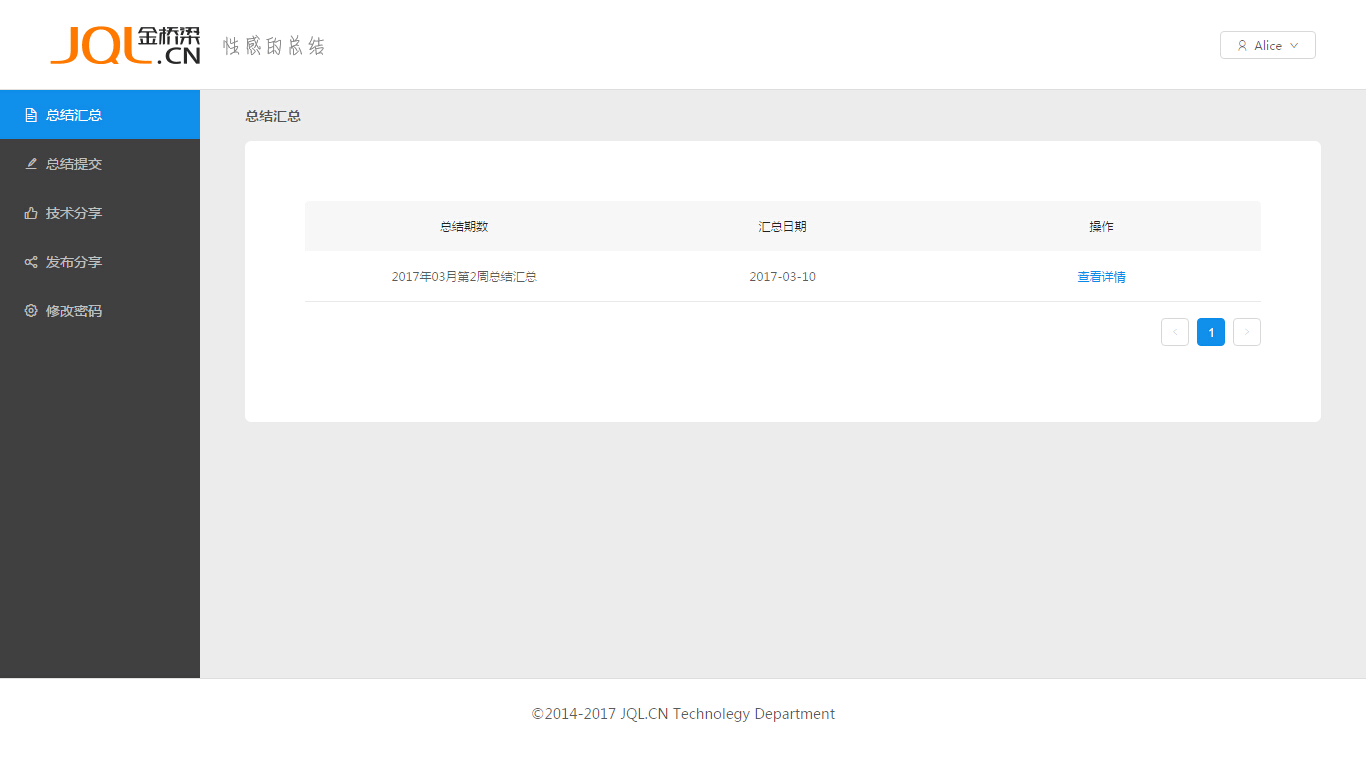
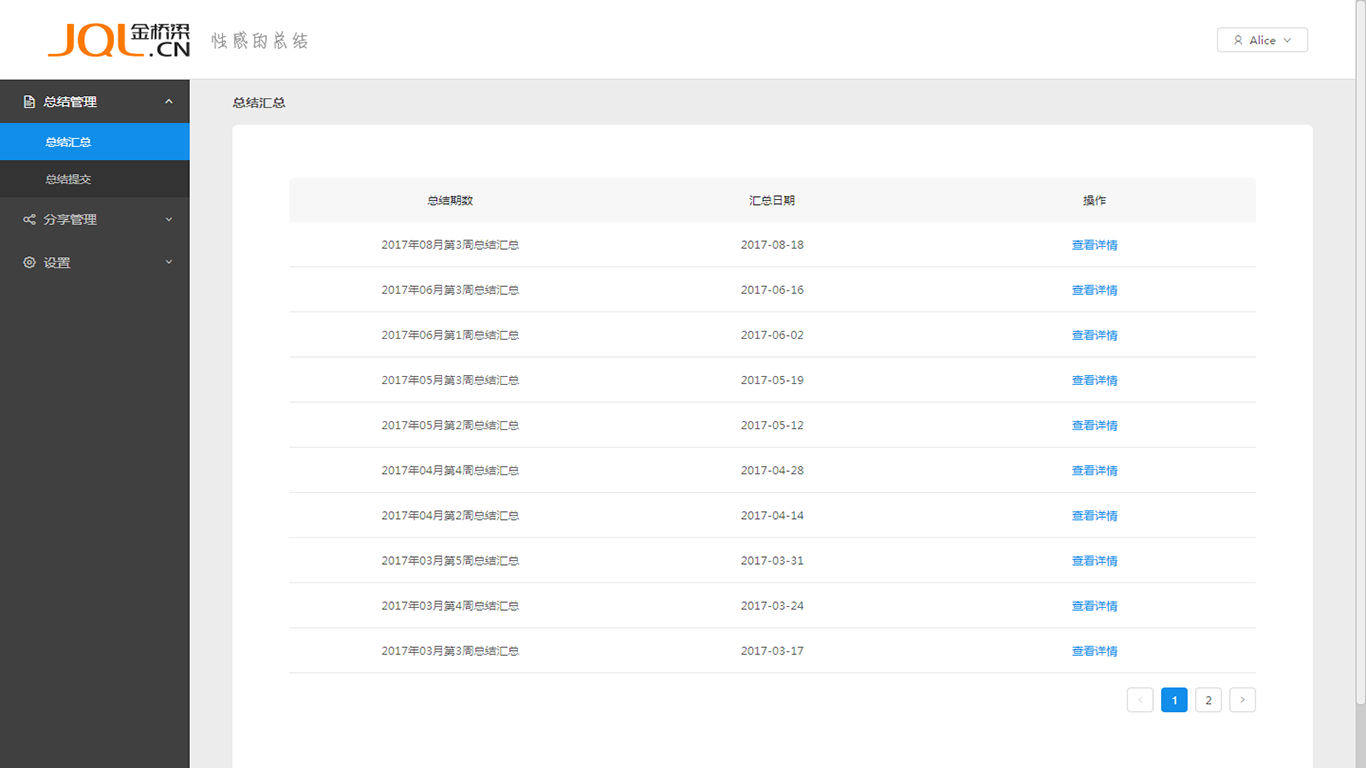
菜单栏优化
菜单栏优化

diff --git a/src/views/user/User.js b/src/views/user/User.js
@@ -47,12 +47,12 @@ class User extends Component {
 						<Menu theme="dark" mode="inline" openKeys={ [this.state.subCurrent] } selectedKeys={ [this.state.current] } className="jql-menu">
 							
 							<Menu.SubMenu key="sub1" title={ <span className="font-14"><Icon type="file-text" /><span>总结管理</span></span> } onTitleClick={ this.subSwift.bind(this) } >
-								<Menu.Item key="1" className="menu-high" >
+								<Menu.Item key="sub1-1" className="menu-high" >
 									<Link to="/user/totallist">
 										<span className="nav-text">总结汇总</span>
 									</Link>
 								</Menu.Item>
-								<Menu.Item key="2" className="menu-high">
+								<Menu.Item key="sub1-2" className="menu-high">
 									<Link to="/user/message">
 										<span className="nav-text">总结提交</span>
 									</Link>
@@ -60,12 +60,12 @@ class User extends Component {
 							</Menu.SubMenu>
 							
 							<Menu.SubMenu key="sub2" title={ <span className="font-14"><Icon type="share-alt" /><span>分享管理</span></span> }  onTitleClick={ this.subSwift.bind(this) } >
-								<Menu.Item key="3" className="menu-high">
+								<Menu.Item key="sub2-1" className="menu-high">
 									<Link to="/user/shareshow">
 										<span className="nav-text">技术分享</span>
 									</Link>
 								</Menu.Item>
-								<Menu.Item key="4" className="menu-high">
+								<Menu.Item key="sub2-2" className="menu-high">
 									<Link to="/user/sharesubmit">
 										<span className="nav-text">发布分享</span>
 									</Link>
@@ -73,7 +73,7 @@ class User extends Component {
 							</Menu.SubMenu>
 							
 							<Menu.SubMenu key="sub3" title={ <span className="font-14"><Icon type="setting" /><span>设置</span></span> } onTitleClick={ this.subSwift.bind(this) } >
-								<Menu.Item key="5" className="menu-high">
+								<Menu.Item key="sub3-1" className="menu-high">
 									<Link to="/set/password">
 										<span className="nav-text">修改密码</span>
 									</Link>

diff --git a/src/views/share/Sharesubmit.js b/src/views/share/Sharesubmit.js
@@ -130,7 +130,7 @@ class Sharesubmit extends Component {
 	}
 	
 	componentDidMount(){
-		this.props.catchCurrent('sub2', '4')
+		this.props.catchCurrent('sub2', 'sub2-2')
 		// 设未完离开提示
 		this.props.router.setRouteLeaveHook(this.props.route, this.routerWillLeave.bind(this))
 		

diff --git a/src/views/message/Message.js b/src/views/message/Message.js
@@ -153,7 +153,7 @@ class Message extends Component {
 	}
 	
 	componentDidMount(){
-		this.props.catchCurrent('sub1', '2')
+		this.props.catchCurrent('sub1', 'sub1-2')
 		if(new Date().getDay() !== 5){
 			// 设为无效
 			this.notOnTime()

diff --git a/src/views/summary/Summary.js b/src/views/summary/Summary.js
@@ -183,7 +183,7 @@ class Summary extends Component {
 	
 	componentDidMount(){
 		let _self = this
-		_self.props.catchCurrent('sub1', '1')
+		_self.props.catchCurrent('sub1', 'sub1-1')
 		_self.readDetail()
 	}
 }

diff --git a/src/views/share/Shareshow.js b/src/views/share/Shareshow.js
@@ -327,7 +327,7 @@ class Shareshow extends Component {
 	}
 	
 	componentDidMount(){
-		this.props.catchCurrent('sub2', '3')
+		this.props.catchCurrent('sub2', 'sub2-1')
 		this.pullShare()
 	}
 }

diff --git a/src/views/totallist/Totallist.js b/src/views/totallist/Totallist.js
@@ -98,7 +98,7 @@ class TotalList extends Component {
 	}
 	
 	componentDidMount(){
-		this.props.catchCurrent('sub1', '1')
+		this.props.catchCurrent('sub1', 'sub1-1')
 		this.pullData()
 	}
 }

diff --git a/src/views/inside/Inside.js b/src/views/inside/Inside.js
@@ -103,7 +103,7 @@ class Inside extends Component {
 	}
 	
 	componentDidMount(){
-		this.props.catchCurrent('sub1', '1')
+		this.props.catchCurrent('sub1', 'sub1-1')
 		this.pullData()
 	}
 }

diff --git a/src/views/set/Password.js b/src/views/set/Password.js
@@ -179,7 +179,7 @@ class Password extends Component {
 	}
 	
 	componentDidMount(){
-		this.props.catchCurrent('sub3', '5')
+		this.props.catchCurrent('sub3', 'sub3-1')
 	}
 }
 
